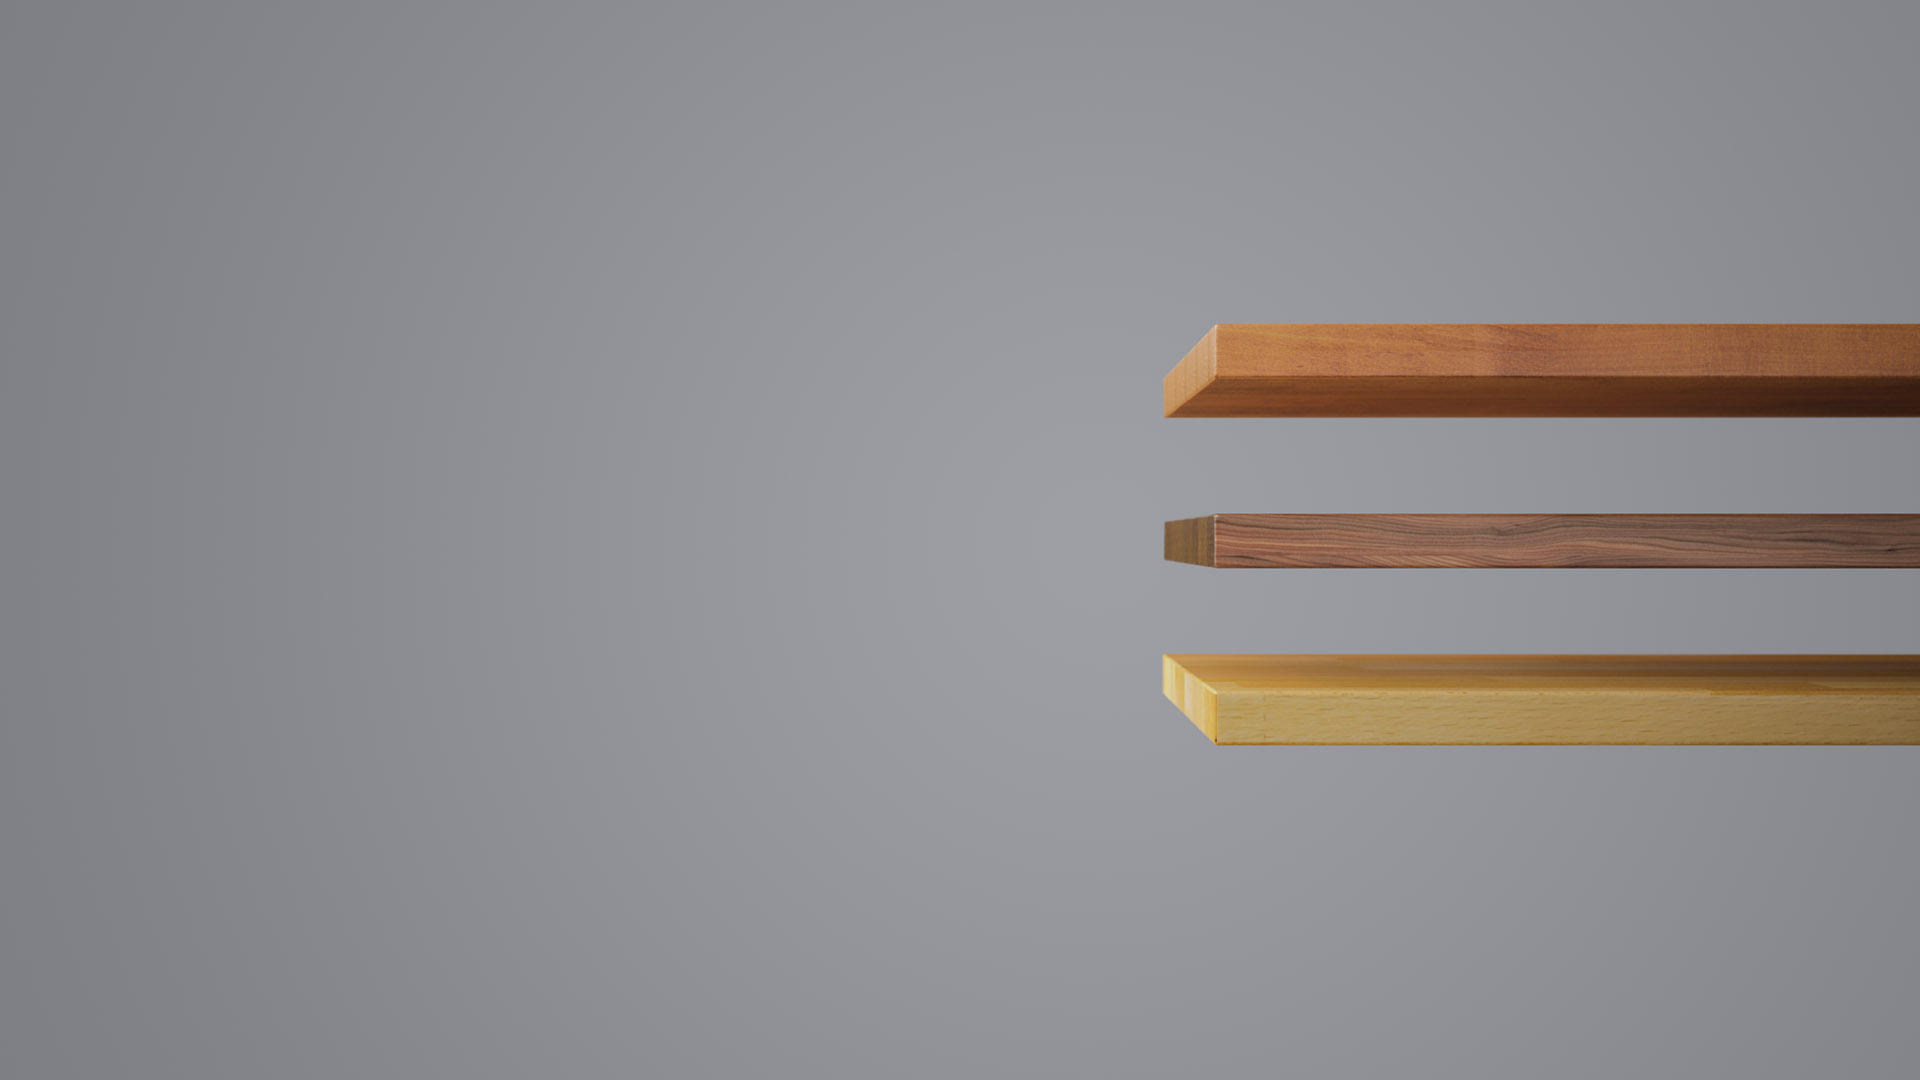
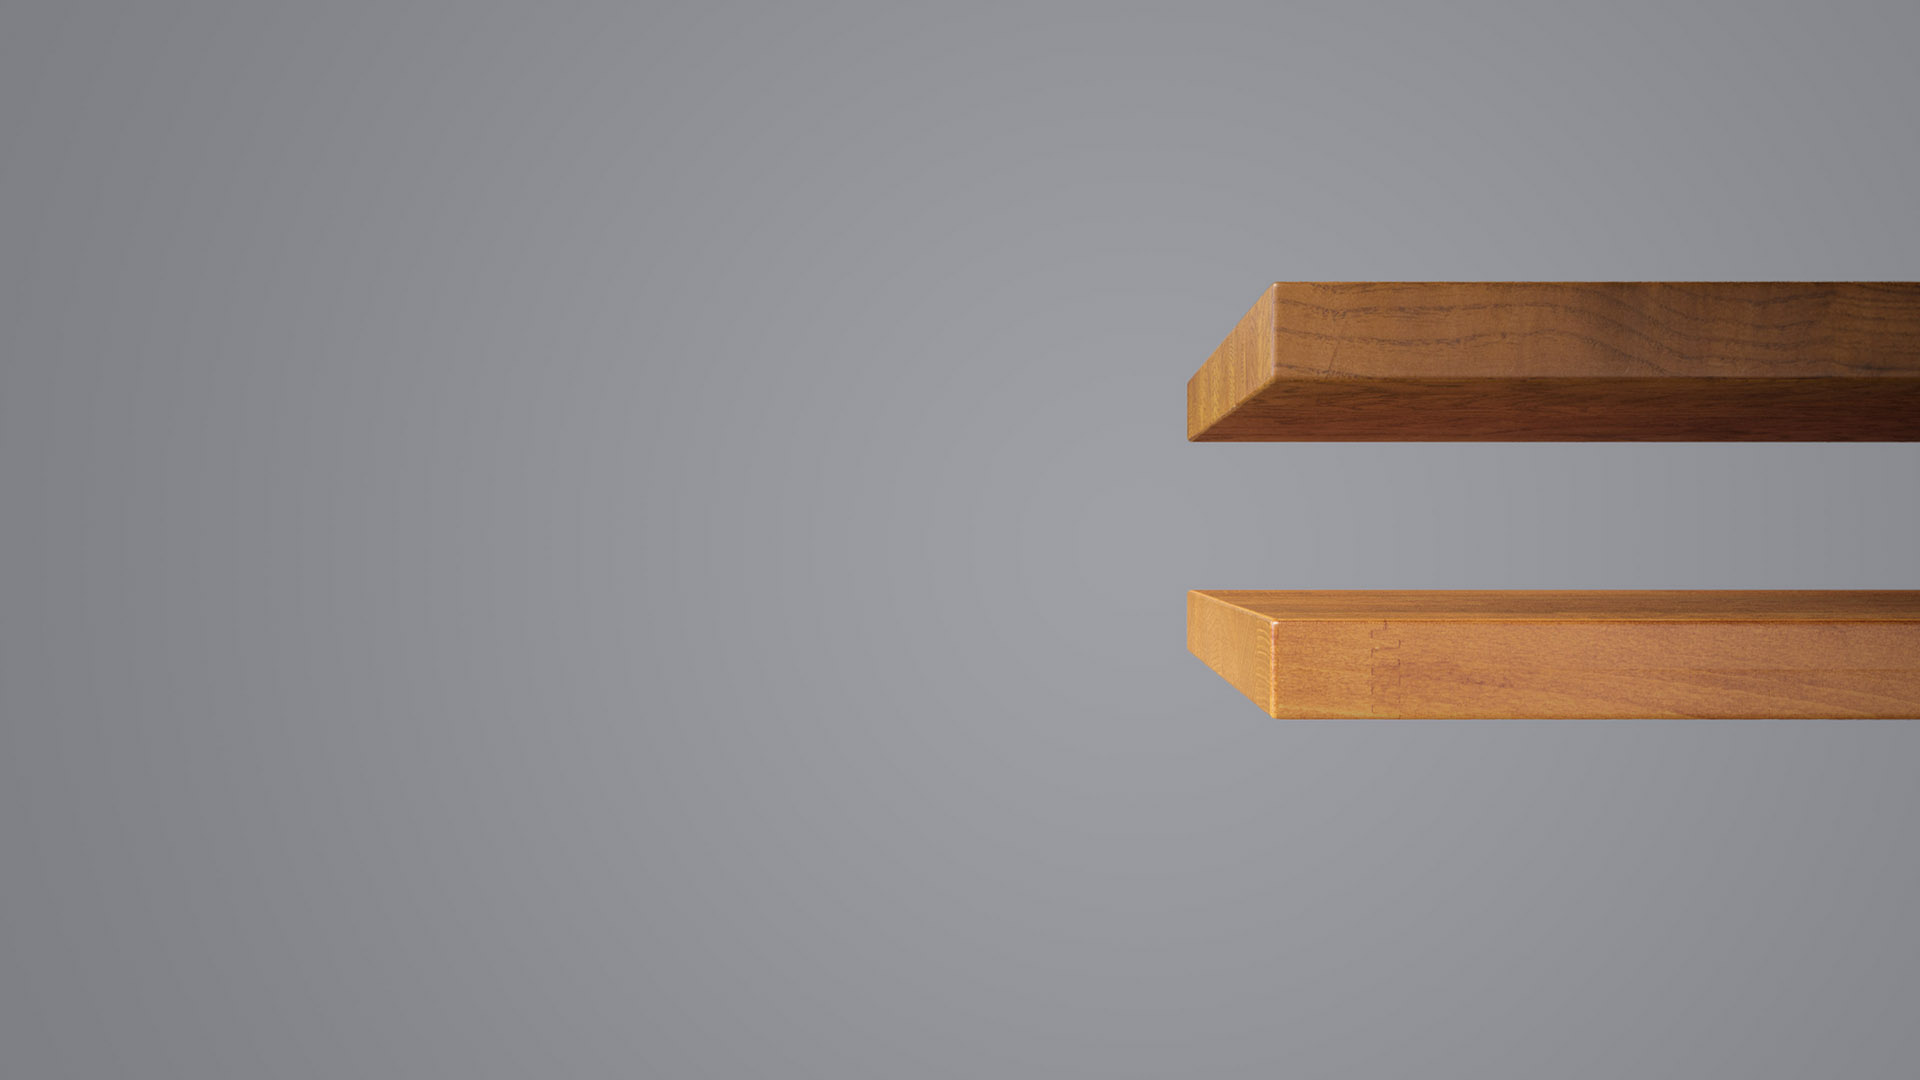
New images on home slider and in wood species

Changed region(s): [[0.5938, 0.4583, 1.0, 0.7028], [0.5938, 0.2444, 1.0, 0.4278]]

diff --git a/css/style.css b/css/style.css
@@ -421,10 +421,18 @@ SLIDER
 .slider-content {
     text-align: center;
 }
+.left .slider-content {
+  text-align: left;
+  padding-left: 300px;
+}
+.slide.left {
+  background-position: right;;
+}
 .slider-content h1 {
     font-size: 42px;
     margin-bottom: 20px;
 }
+
 .slider-content h1.dark {
     color: #fff;
 }
@@ -1011,6 +1019,13 @@ RESPONSIVE
         left: 0;
     }
 
+    /** SLIDER **/
+
+    .left .slider-content {
+      text-align: center;
+      padding-left: 0;
+    }
+
     /** MENU **/
     .top-menu {
         display: none;
@@ -1130,6 +1145,18 @@ RESPONSIVE
 
 /* sm */
 @media (min-width: 701px) and (max-width: 992px) {
+
+    /** SLIDER **/
+
+    .left .slider-content {
+      text-align: left;
+      padding-left: 30px;
+      max-width: 400px;
+    }
+    .slide.left {
+      background-position: 70%;
+    }
+
     .hidden-sm {
         display: none;
     }
@@ -1241,6 +1268,15 @@ RESPONSIVE
 
 /* md */
 @media (min-width: 992px) and (max-width: 1200px) {
+    /** SLIDER **/
+
+    .left .slider-content {
+      text-align: left;
+      padding-left: 80px;
+    }
+    .slide.left {
+      background-position: 70%;
+    }
     .menu-icon-wrapper { display: none; }
     .fade_box { display: none; }
     .section, .section-last, .section-current { background-position: 100% 50% }
@@ -1257,6 +1293,14 @@ RESPONSIVE
 
 /* lg */
 @media (min-width: 1200px) and (max-width: 1600px) {
+    /** SLIDER **/
+    .left .slider-content {
+      text-align: left;
+      padding-left: 80px;
+    }
+    .slide.left {
+      background-position: 100%;
+    }
     .section-in { padding-left: 30px; }
     .section-in p { max-width: 400px; }
     .menu-icon-wrapper { display: none; }

diff --git a/en/index.php b/en/index.php
@@ -26,7 +26,7 @@
 		<div class="wrapper home">
 			<div id="fullpage">
                 <div class="section" id="section0">
-                    <div class="slide" id="slide1" data-anchor="slide1">
+                    <div class="slide left" id="slide1" data-anchor="slide1">
                         <div class="slider-content">
                             <h1 class="dark">Butcher Block Tabletop</h1>
                             <a href="table-tops.php" class="btn">Learn More</a>
@@ -43,7 +43,7 @@
                             <h1 class="dark">Butcher Block Countertop</h1>
                             <a href="countertop.php" class="btn">Learn More</a>
                         </div>
-                    </div>	
+                    </div>
                 </div>
             </div>
         </div>
